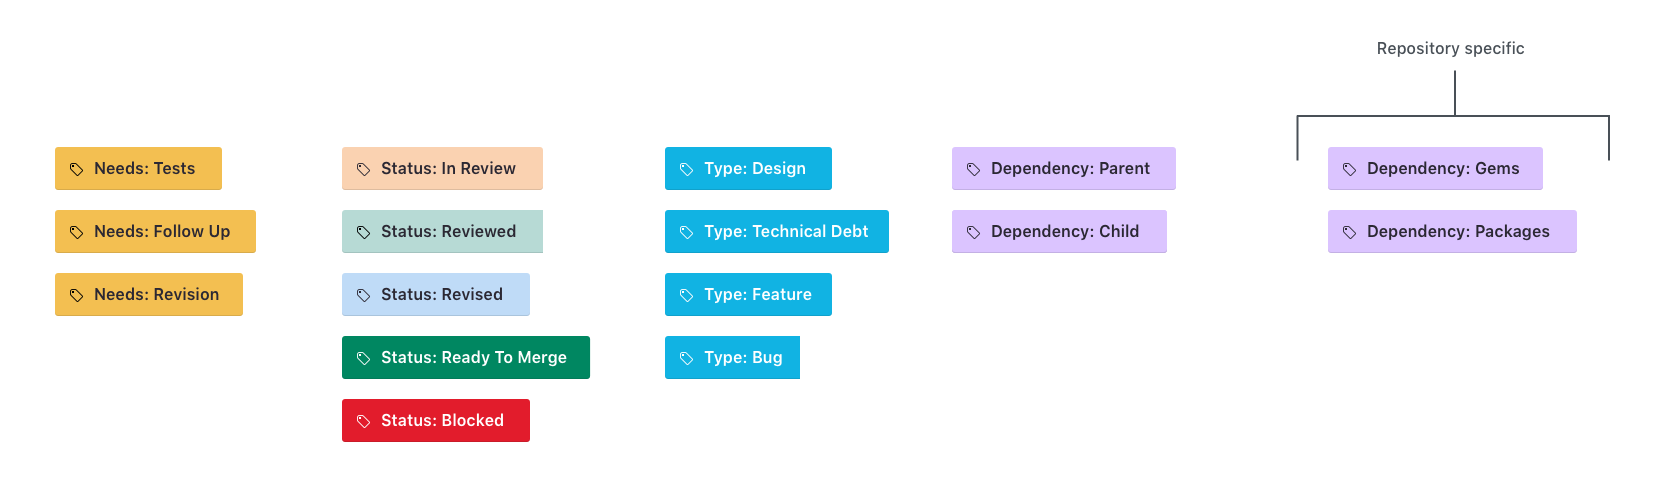
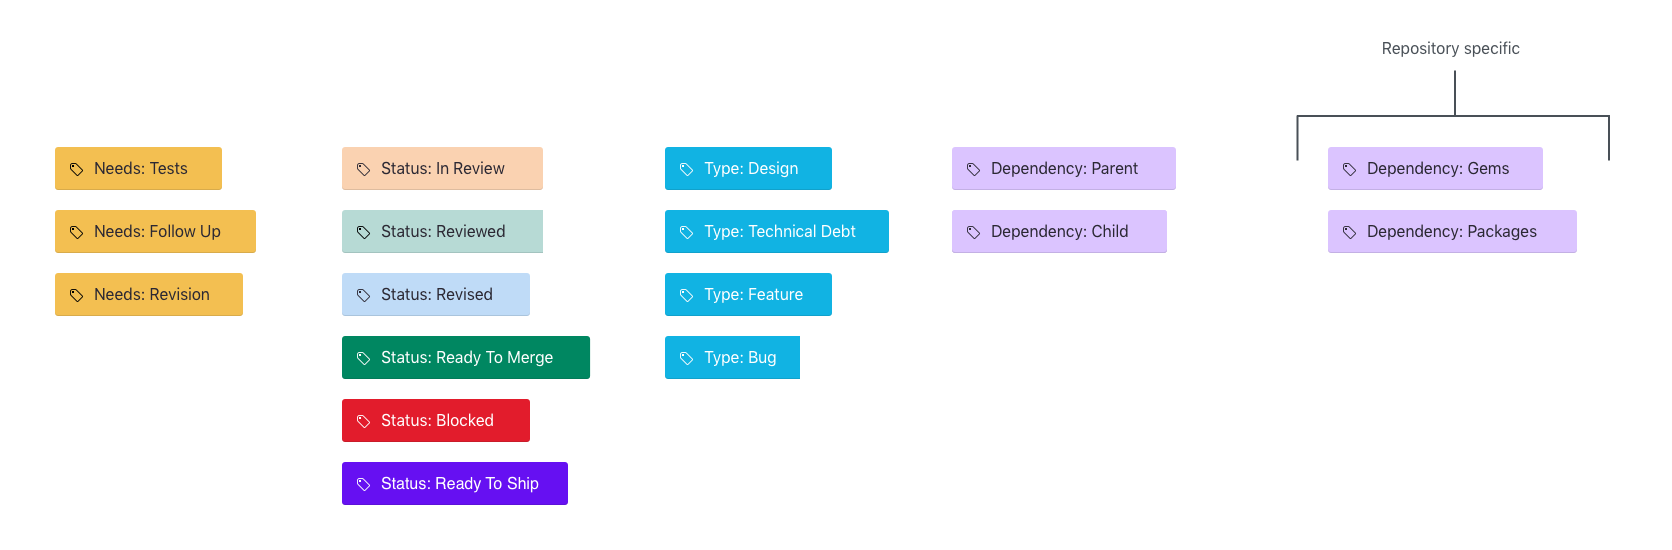
Add "Ready To Ship" label to "Status" group (#26)

diff --git a/protocol/github/labels/README.md b/protocol/github/labels/README.md
@@ -31,6 +31,7 @@ for a deeper understanding of Status labels._
 - Status: Reviewed
 - Status: Revised
 - Status: Ready To Merge
+- Status: Ready To Ship
 - Status: Blocked
 
 **Type**
